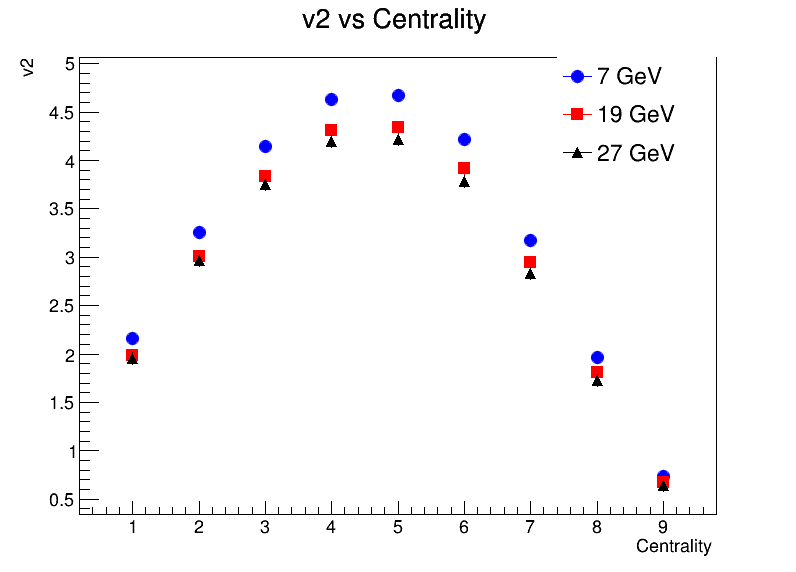
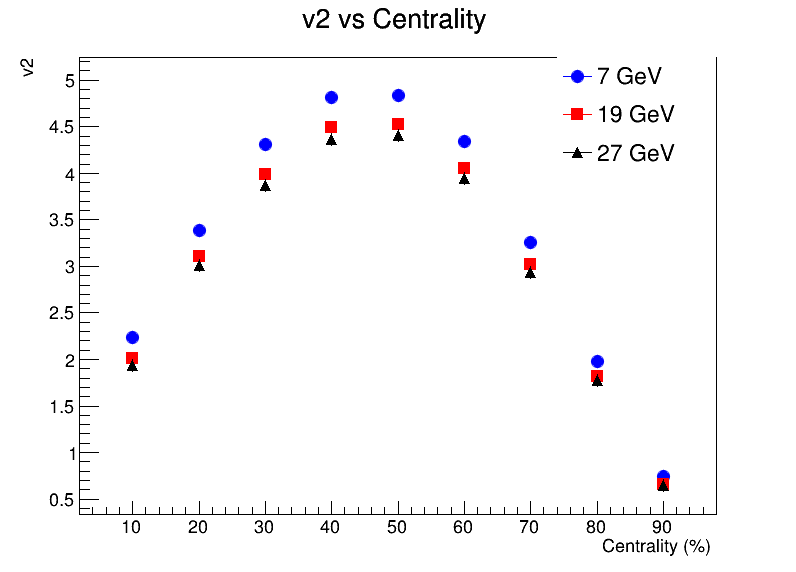
Change README, ETA cut, x labels, centrailty definition, and new plot

diff --git a/plot_multiple_energies.c b/plot_multiple_energies.c
@@ -31,14 +31,13 @@ void plot_multiple_energies() {
             double meanV2Error = p_v2->GetMeanError(2); // Getting the error of the mean y-value
 
             // Add the data point to the graph
-            graph->SetPoint(centrality - 1, centrality, meanV2);
+            graph->SetPoint(centrality - 1, centrality*10, meanV2);
             graph->SetPointError(centrality - 1, 0, meanV2Error);
-
             file->Close();
         }
 
         graph->SetTitle("v2 vs Centrality");
-        graph->GetXaxis()->SetTitle("Centrality");
+        graph->GetXaxis()->SetTitle("Centrality (%)");
         graph->GetYaxis()->SetTitle("v2");
         graph->SetMarkerStyle(marker_style);
         graph->SetMarkerColor(colors[color_index]);

diff --git a/Sample_code.cpp b/Sample_code.cpp
@@ -60,10 +60,6 @@ void Sample_code(int e = 0, string path = "", int cen = 5, int job = 3, int min 
         else if (e == 7) cen_index = cenDef7;
         else std::cerr << "Invalid energy!" << std::endl;
         copy(cen_index, cen_index+9, cenDef);
-        for (float c : cenDef)
-        {
-                cout<<c<<endl;
-        }
         cout<<job<<"\t"<<min<<endl;
 
         TChain* chain = new TChain("tree");

diff --git a/plot_single_energy.c b/plot_single_energy.c
@@ -1,7 +1,7 @@
 void plot_single_energy() {
     TCanvas *canvas = new TCanvas("canvas", "Mean v2 vs Centralities", 800, 600);
     TGraphErrors *graph = new TGraphErrors();
-    int energy = 7;
+    int energy = 19;
     for (int centrality = 1; centrality <= 9; ++centrality) {
         TString filename = Form("Merge/cen%d_%dGeV.merged.root", centrality, energy);
         TFile *file = TFile::Open(filename);

diff --git a/README.md b/README.md
@@ -1,1 +1,14 @@
 # Root_Data_Processing
+
+To use, run ./run.sh <energy> <pathtodata>
+Example: ./run.sh 19 /media/Disk_YIN/AMPT-27GeV/27GeV-10M-2/
+
+This will produce root files, organized by centrality, inside the directory New_Cuts.
+Then, you can run ./merge.sh in /Merge/ to combine root files.
+Within combineResults_simple.pl, just change the energy variable to your desired energy.
+
+After merging, use plot_multiple_energies.c to create a v2 vs. centrality plot for these energies.
+
+You can modify Sample_code.cpp to change the actual data processing (histograms, v2, cuts, etc).
+
+Also you can run nohup bash ./run.sh <energy> <pathtodata> & to run it in the background and pipe output to nohup.out as this process may take a long time depending on how large your dataset is. 
